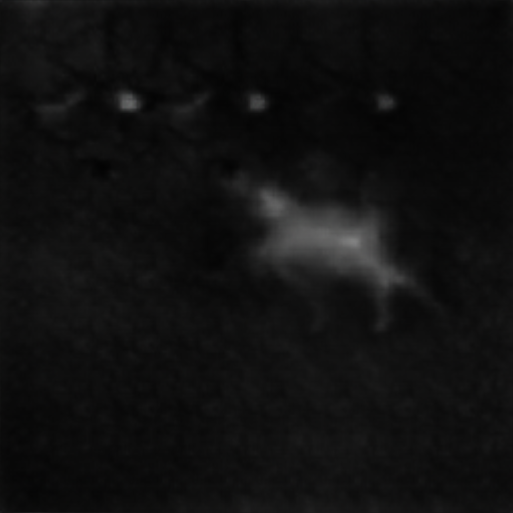
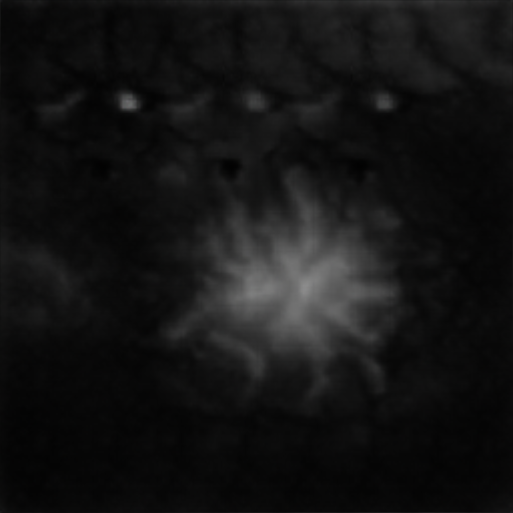
optimization in progress

diff --git a/TerrainVR/Assets/Script/VRPlayer.cs b/TerrainVR/Assets/Script/VRPlayer.cs
@@ -55,17 +55,6 @@ public class VRPlayer : MonoBehaviour
         Vector3 position, derivative;
         float offset, brushSize;
 
-        List<Vector3> derivatives = new List<Vector3>();
-
-        for (int i = 0; i < s.GetComponent<LineRenderer>().positionCount; i++)
-        {
-            if (i == 0) derivative = s.GetPosition(i + 1) - s.GetPosition(i);
-            else if (i == s.GetComponent<LineRenderer>().positionCount - 1) derivative = s.GetPosition(i) - s.GetPosition(i - 1);
-            else derivative = s.GetPosition(i + 1) - s.GetPosition(i - 1);
-
-            derivatives.Add(derivative.normalized);
-        }
-
         if (s.filled)
         {
             for (int i = 0; i < s.GetComponent<LineRenderer>().positionCount; i++)
@@ -93,17 +82,37 @@ public class VRPlayer : MonoBehaviour
 
             if (s.filled)
             {
+                Vector2 interval = s.GetInterval(i);
+                Vector3 start = s.GetPosition(0);
+                Vector3 end = s.GetPosition(s.GetPositionCount() - 1);
+
+                if (interval.x > 0 && interval.y > 0)
+                {
+                    start = s.GetPosition((int)interval.x);
+                    end = s.GetPosition((int)interval.y);
+                }
+
                 terrainTool.RaiseTerrain(position,
                                          Mathf.Abs(offset) / 2f, brushSize / 2f,
                                          Mathf.Max(s.GetLeftBrushSize(), s.GetRightBrushSize()) / 2f,
                                          Mathf.Max(s.GetLeftBrushSize(), s.GetRightBrushSize()) / 2f,
-                                         derivatives[i], s.GetPosition(0), s.GetPosition(s.GetPositionCount() - 1));
+                                         s.GetDerivative(i), start, end);
             }
             else
             {
+                Vector2 interval = s.GetInterval(i);
+                Vector3 start = s.GetPosition(0);
+                Vector3 end = s.GetPosition(s.GetPositionCount() - 1);
+
+                if (interval.x > 0 && interval.y > 0)
+                {
+                    start = s.GetPosition((int)interval.x);
+                    end = s.GetPosition((int)interval.y);
+                }
+
                 terrainTool.RaiseTerrain(position,
                                          Mathf.Abs(offset), brushSize, s.GetLeftBrushSize(), s.GetRightBrushSize(),
-                                         derivatives[i], s.GetPosition(0), s.GetPosition(s.GetPositionCount() - 1));
+                                         s.GetDerivative(i), start, end);
             }
         }
 
@@ -129,7 +138,7 @@ public class VRPlayer : MonoBehaviour
             }
             else
             {
-                if (Mathf.Abs(derivatives[i].y) < 0.2f 
+                if (s.GetIsStroke(i)
                     && (position.y - terrainTool._targetTerrain.transform.position.y) / (maxHeight - terrainTool._targetTerrain.transform.position.y) > 0.3f)
                 {
                     terrainTool.PaintStroke(position,
@@ -137,7 +146,7 @@ public class VRPlayer : MonoBehaviour
                                             1f, 2);
                 }
 
-                if (Mathf.Abs(derivatives[i].y) > 0.8f
+                if (Mathf.Abs(s.GetDerivative(i).y) > 0.9f
                     && (position.y - terrainTool._targetTerrain.transform.position.y) / (maxHeight - terrainTool._targetTerrain.transform.position.y) > 0.3f)
                 {
                     terrainTool.PaintStroke(position,
@@ -150,7 +159,7 @@ public class VRPlayer : MonoBehaviour
                     float middlePoint = (position.y - terrainTool._targetTerrain.transform.position.y) * s.GetLeftBrushSize() / 2f;
                     if (middlePoint > 3f)
                     {
-                        Vector3 cliff = position + (Quaternion.AngleAxis(-90, Vector3.up) * derivatives[i]) * middlePoint;
+                        Vector3 cliff = position + (Quaternion.AngleAxis(-90, Vector3.up) * s.GetDerivative(i)) * middlePoint;
                         terrainTool.PaintStroke(cliff,
                                                 brushSize, s.GetLeftBrushSize(), s.GetRightBrushSize(),
                                                 0.6f, (int)(middlePoint - 3f));
@@ -162,7 +171,7 @@ public class VRPlayer : MonoBehaviour
                     float middlePoint = (position.y - terrainTool._targetTerrain.transform.position.y) * s.GetRightBrushSize() / 2f;
                     if (middlePoint > 3f)
                     {
-                        Vector3 cliff = position + (Quaternion.AngleAxis(90, Vector3.up) * derivatives[i]) * middlePoint;
+                        Vector3 cliff = position + (Quaternion.AngleAxis(90, Vector3.up) * s.GetDerivative(i)) * middlePoint;
                         terrainTool.PaintStroke(cliff,
                                                 brushSize, s.GetLeftBrushSize(), s.GetRightBrushSize(),
                                                 0.6f, (int)(middlePoint - 3f));
@@ -329,6 +338,7 @@ public class VRPlayer : MonoBehaviour
             }
             else
             {
+                stroke.FinishStroke();
                 OnFinishingDrawing(stroke);
                 visualized = true;
             }

diff --git a/TerrainVR/Assets/Script/TerrainTool.cs b/TerrainVR/Assets/Script/TerrainTool.cs
@@ -126,10 +126,61 @@ public sealed class TerrainTool : MonoBehaviour
                     adjustedSize = Mathf.Lerp((float)brushSize.x, rightBrushSize * (float)brushSize.x, angle);
                 }
 
-                if (Mathf.Min(startSize, endSize) * 2f < Mathf.Max(leftBrushSize, rightBrushSize))
+                if (Mathf.Min(startSize, endSize) < Mathf.Max(leftBrushSize, rightBrushSize))
                 {
-                    adjustedSize *= Mathf.Min(startSize, endSize) * 2f;
+                    adjustedSize *= Mathf.Min(startSize, endSize);
                 }
+                /*if (angle < -0.5f)
+                {
+                    angle += 1f;
+                    angle *= 2f;
+                    if (leftBrushSize < rightBrushSize)
+                    {
+                        adjustedSize = Mathf.Lerp(Mathf.Min((leftBrushSize + rightBrushSize) / 2f, Mathf.Min(startSize, endSize) * 2f), (float)brushSize.x, angle);
+                    }
+                    else
+                    {
+                        adjustedSize = Mathf.Lerp(Mathf.Min((leftBrushSize + rightBrushSize) / 2f, Mathf.Min(startSize, endSize) * 2f), rightBrushSize * (float)brushSize.x, angle);
+                    }
+                }
+                else if (angle < 0f)
+                {
+                    angle += 0.5f;
+                    angle *= 2f;
+                    if (leftBrushSize < rightBrushSize)
+                    {
+                        adjustedSize = Mathf.Lerp((float)brushSize.x, Mathf.Min((leftBrushSize + rightBrushSize) / 2f, Mathf.Min(startSize, endSize) * 2f), angle);
+                    }
+                    else
+                    {
+                        adjustedSize = Mathf.Lerp(rightBrushSize * (float)brushSize.x, Mathf.Min((leftBrushSize + rightBrushSize) / 2f, Mathf.Min(startSize, endSize) * 2f), angle);
+                    }
+                }
+                else if (angle < 0.5f)
+                {
+                    angle *= 2f;
+                    if (leftBrushSize < rightBrushSize)
+                    {
+                        adjustedSize = Mathf.Lerp(Mathf.Min((leftBrushSize + rightBrushSize) / 2f, Mathf.Min(startSize, endSize) * 2f), leftBrushSize * (float)brushSize.x, angle);
+                    }
+                    else
+                    {
+                        adjustedSize = Mathf.Lerp(Mathf.Min((leftBrushSize + rightBrushSize) / 2f, Mathf.Min(startSize, endSize) * 2f), (float)brushSize.x, angle);
+                    }
+                }
+                else
+                {
+                    angle -= 0.5f;
+                    angle *= 2f;
+                    if (leftBrushSize < rightBrushSize)
+                    {
+                        adjustedSize = Mathf.Lerp(leftBrushSize * (float)brushSize.x, Mathf.Min((leftBrushSize + rightBrushSize) / 2f, Mathf.Min(startSize, endSize) * 2f), angle);
+                    }
+                    else
+                    {
+                        adjustedSize = Mathf.Lerp((float)brushSize.x, Mathf.Min((leftBrushSize + rightBrushSize) / 2f, Mathf.Min(startSize, endSize) * 2f), angle);
+                    }
+                }*/
 
                 distance /= adjustedSize / 2f;
                 distance = Mathf.Clamp(distance, 0f, 1f);

diff --git a/TerrainVR/Assets/Script/Stroke.cs b/TerrainVR/Assets/Script/Stroke.cs
@@ -11,6 +11,9 @@ public class Stroke : MonoBehaviour
     private List<Vector3> positions;
     private Vector3 lastStrokePosition;
 
+    private List<Vector3> derivatives;
+    private List<int> intervals;
+
     private float leftBrushSize = 1f;
     private float rightBrushSize = 1f;
     public bool filled;
@@ -95,6 +98,42 @@ public class Stroke : MonoBehaviour
 
             lastStrokePosition = position;
         }
+    }
+
+    public void FinishStroke()
+    {
+        derivatives = new List<Vector3>();
+        intervals = new List<int>();
+
+        Vector3 derivative;
+
+        for (int i = 0; i < GetComponent<LineRenderer>().positionCount; i++)
+        {
+            if (i == 0) derivative = GetPosition(i + 1) - GetPosition(i);
+            else if (i == GetComponent<LineRenderer>().positionCount - 1) derivative = GetPosition(i) - GetPosition(i - 1);
+            else derivative = GetPosition(i + 1) - GetPosition(i - 1);
+
+            derivatives.Add(derivative.normalized);
+        }
+        
+        bool inInterval = false;
+        intervals.Add(0);
+
+        for (int i = 1; i < derivatives.Count - 1; i++)
+        {
+            if (GetIsStroke(i) && !inInterval)
+            {
+                intervals.Add(i);
+                inInterval = true;
+            }
+            else if (inInterval && !GetIsStroke(i))
+            {
+                intervals.Add(i);
+                inInterval = false;
+            }
+        }
+
+        intervals.Add(derivatives.Count - 1);
     }
 
     public int LocateEditingIndex(Vector3 position)
@@ -322,6 +361,39 @@ public class Stroke : MonoBehaviour
     public Vector3 GetPosition(int i)
     {
         return positions[i];
+    }
+
+    public Vector3 GetDerivative(int i)
+    {
+        return derivatives[i];
+    }
+
+    public Vector2 GetInterval(int i)
+    {
+        for (int j = 0; j < intervals.Count - 1; j++)
+        {
+            if (intervals[j] < i && intervals[j + 1] > i)
+            {
+                if (j % 2 == 0)
+                {
+                    return new Vector2(intervals[j], intervals[j + 1]);
+                }
+                else
+                {
+                    return new Vector2(-1, -1);
+                }
+            }
+        }
+
+        return new Vector2(-1, -1);
+    }
+
+    public bool GetIsStroke(int i)
+    {
+        if (Mathf.Abs(derivatives[i].y) < 0.2f) return true;
+        if ((i > 0 && i < derivatives.Count - 1) && derivatives[i - 1].y * derivatives[i + 1].y < 0f) return true;
+
+        return false;
     }
 
     public float GetLeftBrushSize()
